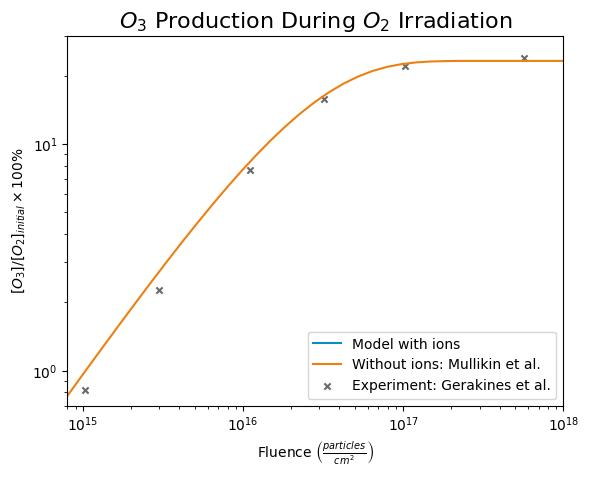
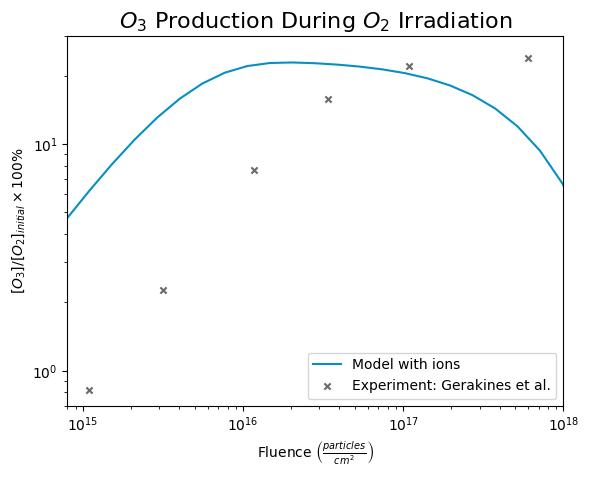
Setup test cases for server running and modified plotting.py (not plotting without ion results because of an error with an unknown cause)

diff --git a/plotting.py b/plotting.py
@@ -1,6 +1,7 @@
 # Run DataFrameCreation.py before this
 
 import csv
+import os
 import pandas as pd
 import numpy as np
 import matplotlib.pyplot as plt
@@ -26,7 +27,6 @@ custom_cycler = (cycler(color=['#098ec3', #blue
                 )
 
 # Change style defaults
-# BELOW TWO LINES--email Shingledecker about
 # plt.rc('text', usetex=True) # Allows LaTeX formatting with r'Formatted Text'
 # plt.rc('font',**{'family':'serif','serif':['Computer Modern Roman']}) # Changes font to default LaTeX fount
 plt.rcParams['axes.prop_cycle'] = custom_cycler # Sets plot color cycler to the cycle defined above
@@ -47,12 +47,13 @@ with open(w_ions_version, newline='') as bO3_csv:  # Read in the lines from the 
          while(True):
             bO3_csv_writer.writerow(next(reader))
       except StopIteration:
-         pass # We are done processing lines; this is the exception (expected) which is thrown when we are out of lines to write to the file.
-      
+         pass # We are done processing lines; this is the exception (expected) which is thrown when we are out of lines to write to the file. 
 
 # Load in data
 woions_df = pd.read_pickle(wo_ions_version + '/pickle_dataframes/csv_dataframe.pkl')
 wions_df = pd.read_csv(w_ions_modified_version)
+
+os.remove("./bO3_for_dataframe.csv") # Because we no longer need the file
 
 initialO2 = 5.7E22
 flux = 2.33e14
@@ -60,8 +61,6 @@ flux = 2.33e14
 # Isolate data of interest
 model_data_woions = woions_df[['Fluence', 'total_O3', 'total_O2']]
 model_data_wions = wions_df[['Fluence', 'bO3']]
-
-print(model_data_wions)
 
 exp_data = pd.DataFrame({'expX': [4.709604,
                                   13.496563,
@@ -77,7 +76,6 @@ exp_data = pd.DataFrame({'expX': [4.709604,
                                       1.6182984]})
 
 
-
 # Scale modifications
 exp_data["expY"] = exp_data["expY"] * (24 / 1.6182984) # Scaling factor used in figure_2_DO_NOT_MODIFY.pro.
 exp_data["expX"] = exp_data["expX"] * flux # (Old comment: Scaling factor used in figure_2_DO_NOT_MODIFY.pro.) Scaling factor now is different (flux value, which is different) 
@@ -86,14 +84,13 @@ exp_data["expX"] = exp_data["expX"] * flux # (Old comment: Scaling factor used i
 model_data_woions["Fluence"] = model_data_woions["Fluence"]
 
 model_data_wions["Fluence"] = model_data_wions["Fluence"]
-model_data_wions["bO3"] = (model_data_wions["bO3"] / initialO2) * 100
+model_data_wions["bO3"] = (model_data_wions["bO3"] / initialO2) * 100 * 1e3
 
-#model_data.head()
 # Create figure
 
 # Add data to figure
 ax = model_data_wions.plot(x = 'Fluence', y = 'bO3', label = 'Model with ions')
-model_data_woions.plot(ax = ax, x = 'Fluence', y = 'bO3', label = 'Without ions: Mullikin et al.')
+# model_data_woions.plot(ax = ax, x = 'Fluence', y = 'bO3', label = 'Without ions: Mullikin et al.')
 exp_data.plot.scatter(ax = ax, x = 'expX', y = 'expY', marker="x", c='dimgrey', label = 'Experiment: Gerakines et al.') #  c='#53b234'
 
 # Add plot elements
